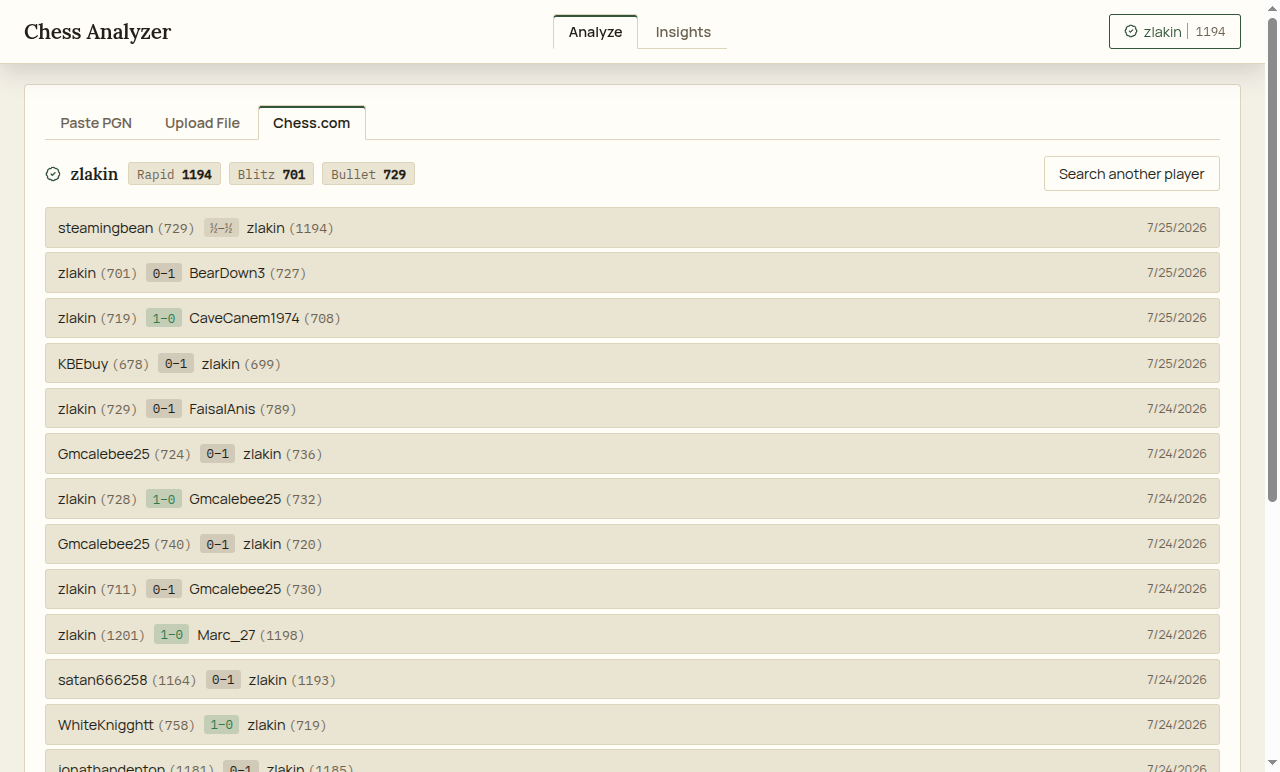
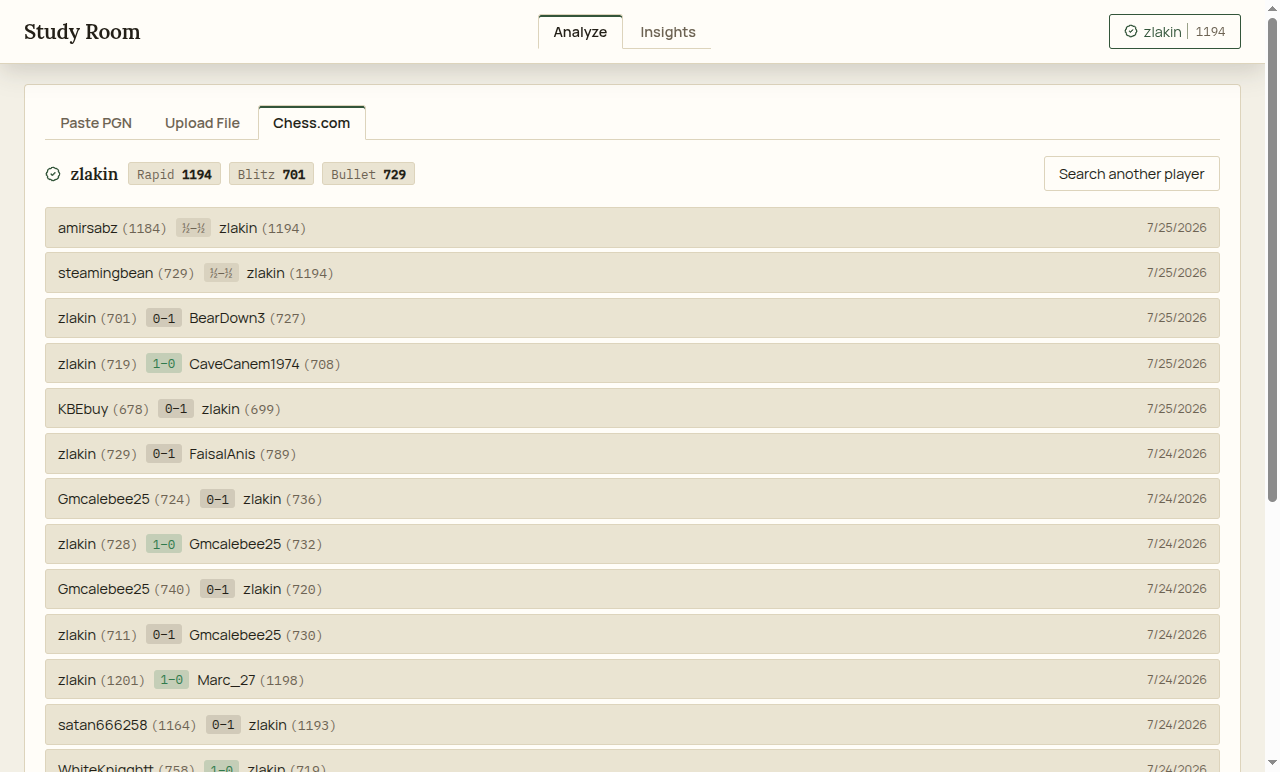
Rename wishlist to waitlist, fix oversized mobile email input, refresh screenshots
Waitlist rename is copy-only (button text, email subject/body, meta
descriptions) - the Netlify Forms internal identifier (form name="wishlist",
hidden form-name field) deliberately stays "wishlist" so existing
signups don't get split into a second, separate form in the Netlify
dashboard. Mirrors the same internal-vs-display-name split already used
for package.json's npm identifier during the product rename.

Mobile bug: the email input rendered at 260px tall instead of ~48px.
Root cause: `flex: 1 1 260px` sets a min-*width* in the desktop row
layout, but the same declaration is inherited into the mobile
`flex-direction: column` breakpoint, where flex-basis applies to the
main axis - now vertical - turning that 260px into a height. Fixed by
resetting to `flex: 1 1 auto` inside the column breakpoint.

Also: all four in-app screenshots were captured before the Chess
Analyzer -> Study Room rename and still showed the old name in their
tiny nav-bar chrome - recaptured all of them against the renamed,
rebuilt app. The "Full engine analysis" card previously reused hero.png
(same content as the hero and near-duplicate of the classify card, a
known deferred issue) - it now has its own dedicated screenshot showing
a live move-verdict callout ("Bc4 - Excellent... Best was Nf3") that no
other card shows, genuinely differentiating it instead of relying on
object-position crop tricks against source images with almost no crop
[…]

diff --git a/website/index.html b/website/index.html
@@ -43,7 +43,7 @@
           <p class="hp-field" aria-hidden="true"><label>Don't fill this out: <input name="bot-field" tabindex="-1" autocomplete="off" /></label></p>
           <label class="visually-hidden" for="email">Email address</label>
           <input type="email" id="email" name="email" required placeholder="you@example.com" />
-          <button type="submit" class="button-primary">Join the wishlist</button>
+          <button type="submit" class="button-primary">Join the waitlist</button>
         </form>
         <p class="hero-note">In active development — a Linux build already exists today; Windows and Mac are next. I'll email you the moment there's a build for your platform.</p>
       </div>
@@ -59,7 +59,7 @@
       <div class="feature-grid">
         <article class="feature-card feature-card-analysis">
           <div class="feature-shot">
-            <img src="images/hero.png" alt="Move-by-move engine evaluation and per-game accuracy score" loading="lazy" />
+            <img src="images/feature-engine.png" alt="Engine verdict on a specific move, with the evaluation bar and best-move arrow" loading="lazy" />
           </div>
           <p class="feature-tag"><span class="tag-dot"></span>Engine</p>
           <h3>Full engine analysis &amp; accuracy scoring</h3>
@@ -108,7 +108,7 @@
         <p class="hp-field" aria-hidden="true"><label>Don't fill this out: <input name="bot-field" tabindex="-1" autocomplete="off" /></label></p>
         <label class="visually-hidden" for="email-2">Email address</label>
         <input type="email" id="email-2" name="email" required placeholder="you@example.com" />
-        <button type="submit" class="button-primary">Join the wishlist</button>
+        <button type="submit" class="button-primary">Join the waitlist</button>
       </form>
     </div>
   </section>

diff --git a/website/success.html b/website/success.html
@@ -5,13 +5,13 @@
 <meta name="viewport" content="width=device-width, initial-scale=1.0" />
 <title>You're on the list — Study Room</title>
 <meta name="robots" content="noindex" />
-<meta name="description" content="You're on the wishlist for Study Room, a free local chess game-review tool." />
+<meta name="description" content="You're on the waitlist for Study Room, a free local chess game-review tool." />
 <meta property="og:type" content="website" />
 <meta property="og:title" content="You're on the list — Study Room" />
-<meta property="og:description" content="You're on the wishlist for Study Room, a free local chess game-review tool." />
+<meta property="og:description" content="You're on the waitlist for Study Room, a free local chess game-review tool." />
 <meta name="twitter:card" content="summary_large_image" />
 <meta name="twitter:title" content="You're on the list — Study Room" />
-<meta name="twitter:description" content="You're on the wishlist for Study Room, a free local chess game-review tool." />
+<meta name="twitter:description" content="You're on the waitlist for Study Room, a free local chess game-review tool." />
 <link rel="icon" type="image/svg+xml" href="images/icon.svg" />
 <link rel="icon" type="image/png" href="images/icon.png" />
 <link rel="preconnect" href="https://fonts.googleapis.com" />

diff --git a/website/css/style.css b/website/css/style.css
@@ -234,9 +234,6 @@ body {
   object-position: top;
   display: block;
 }
-.feature-card-analysis img {
-  object-position: 30% top;
-}
 .feature-tag {
   display: flex;
   align-items: center;
@@ -343,6 +340,12 @@ body {
   }
   .wishlist-form {
     flex-direction: column;
+  }
+  .wishlist-form input[type="email"] {
+    /* The 260px flex-basis above is a min-*width* for the row layout;
+       in a column container the same basis becomes a *height*, so it
+       must be reset here rather than inherited. */
+    flex: 1 1 auto;
   }
   .wishlist-form .button-primary {
     width: 100%;

diff --git a/README.md b/README.md
@@ -35,7 +35,7 @@ the project references.
 
 ## Website
 
-A static marketing/wishlist site lives in `website/` (deployed via Netlify,
+A static marketing/waitlist site lives in `website/` (deployed via Netlify,
 config at the repo-root `netlify.toml`) — see
 [`docs/superpowers/specs/2026-07-25-marketing-website-design.md`](docs/superpowers/specs/2026-07-25-marketing-website-design.md)
 for the design.
